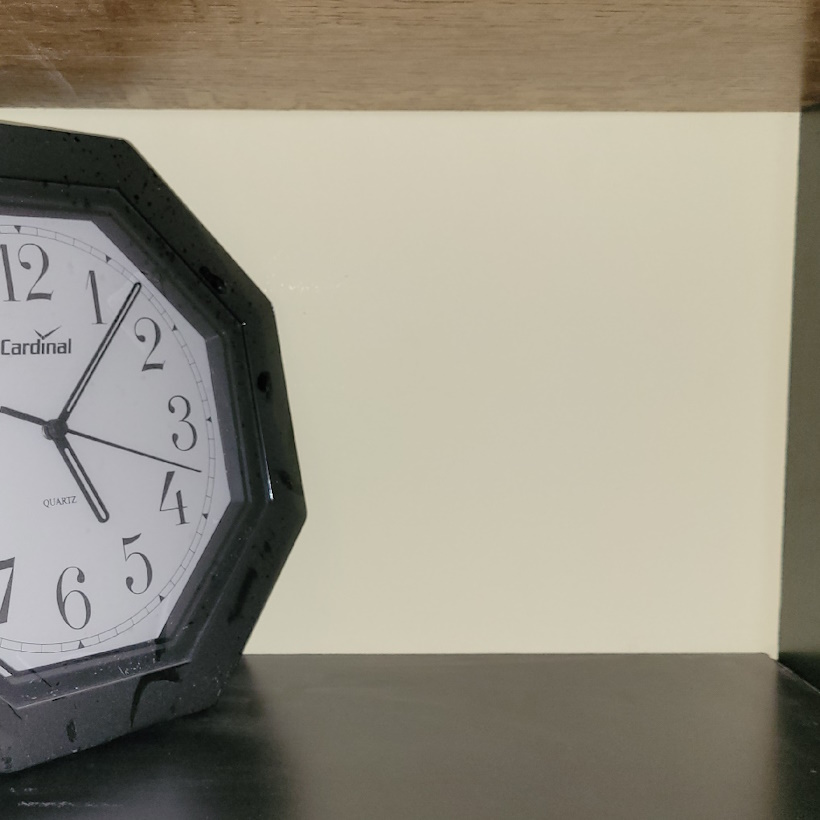
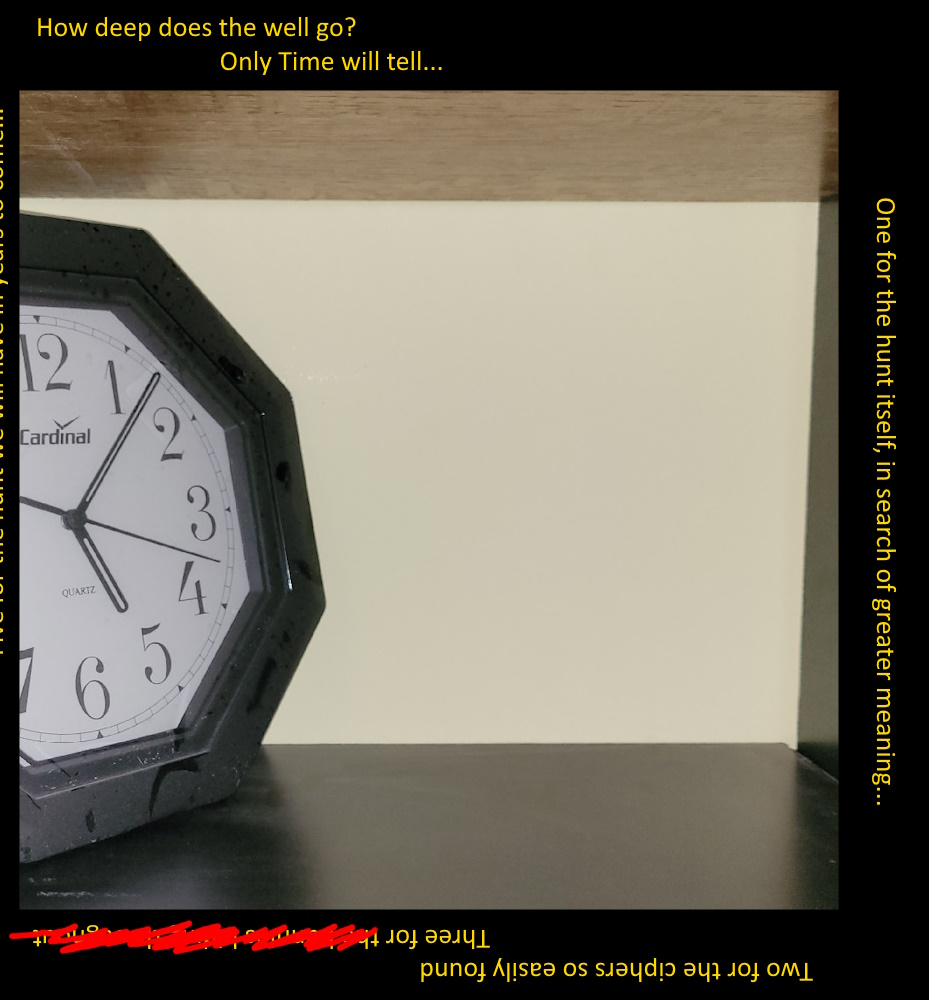
Added missing path. Added outside-bound secrets to two pictures

diff --git a/golden_path/validGoldenPaths.js b/golden_path/validGoldenPaths.js
@@ -51,7 +51,7 @@ module.exports = [
     },    
     {
         // Starts: Hanoi
-        // From: Super Simple Face Path
+        // From: Simple Face Mural
         id: '????',
         path: [
             UP, UP, DOWN, LEFT, DOWN, 
@@ -84,9 +84,9 @@ module.exports = [
     },
     {
         // Starts: Simple Face Mural
-        // From: ???
+        // From: Memo Pages (Input Pads)
         id: '????',
-        path: [RIGHT, LEFT],
+        path: [LEFT, UP, RIGHT, LEFT, DOWN, RIGHT, UP, DOWN],
         action: (gpm) => {
             gpm.simplePuzzleManager.initiatePuzzle(puzzleEnum.SIMPLE_FACES);
         },

diff --git a/simple_puzzles/puzzles/hanoi/prize/index.html b/simple_puzzles/puzzles/hanoi/prize/index.html
@@ -7,7 +7,7 @@
         <link rel="stylesheet" href="./style.css" />
     </head>
     <body>
-        <img id="background" src="background.png" />
+        <img id="background" src="background.gif" />
         <div class="frog-jump-container">
             <div class="frog-horizontal-container">
                 <img id="frog" src="frog.png" />

diff --git a/simple_puzzles/puzzles/lost_clock/index.html b/simple_puzzles/puzzles/lost_clock/index.html
@@ -19,6 +19,6 @@
         </style>
     </head>
     <body>
-        <img src="clock.jpg" />
+        <img src="clock.jpg" style="padding-left: 71px;"/>
     </body>
 </html>
